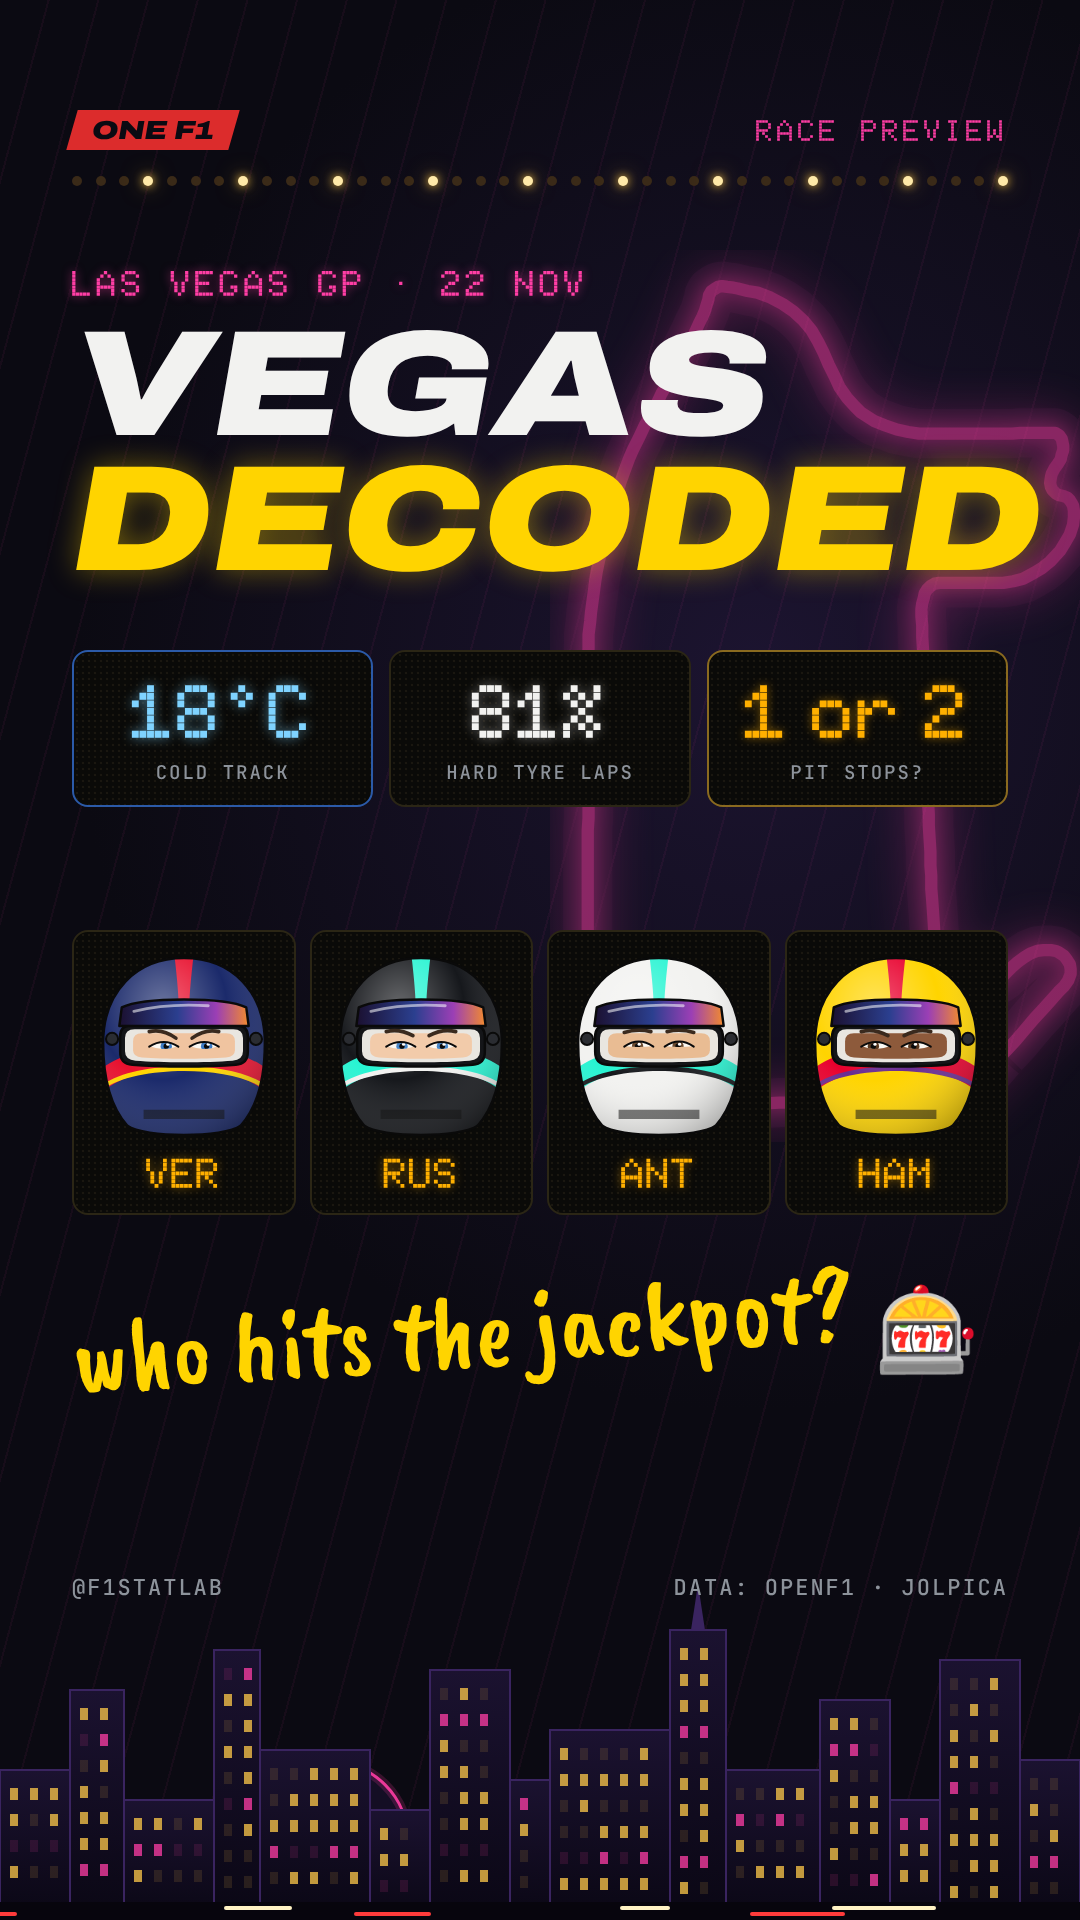
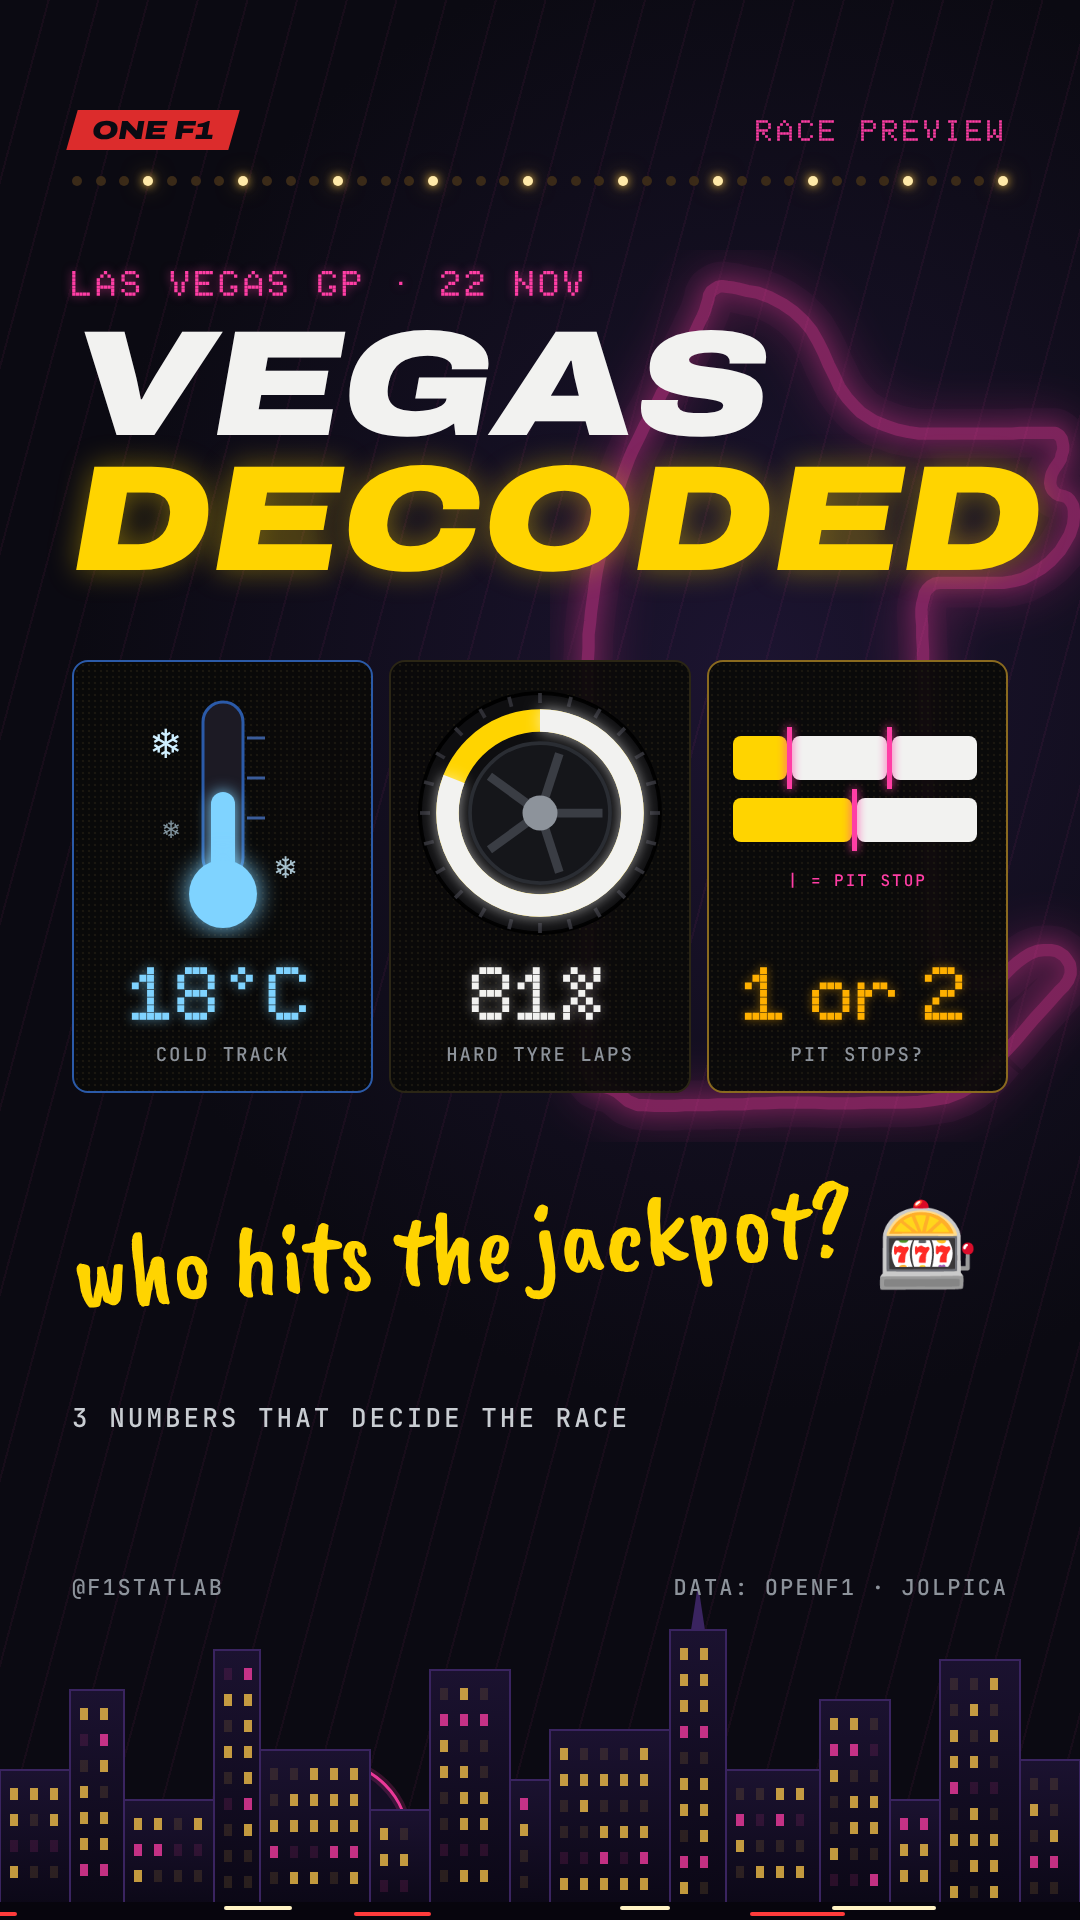
Vegas reel cover: replace driver helmets with thermometer, tyre and pit-stop graphics
Claude-Session: https://claude.ai/code/session_016E9C1XvYpsSCiakD2mRjGd

Changed region(s): [[0.0611, 0.3125, 0.9472, 0.75], [0.3361, 0.7188, 0.3667, 0.75]]

diff --git a/content/vegas-preview-carousel/export-cover.js b/content/vegas-preview-carousel/export-cover.js
@@ -80,23 +80,32 @@ const COVERS = {
     <div class="hand4">${[["VER", "♦", "#C8102E", -12, 6, -330, 40], ["RUS", "♠", "#14161A", -4, 3, -110, 0], ["ANT", "♣", "#14161A", 4, -3, 110, 0], ["HAM", "♥", "#C8102E", 12, -6, 330, 40]].map(([c, s, col, r, l, dx, dy]) =>
       `<div class="card" style="transform:translate(${dx}px,${dy}px) rotate(${r}deg)"><span class="cn tl" style="color:${col}">${s}</span><span class="cn br" style="color:${col}">${s}</span>${helmet(c, { size: 170, look: l })}<b>${c}</b></div>`).join("")}</div>
     <div style="position:absolute;left:0;right:0;top:1360px;text-align:center"><span class="hand" style="font-size:88px;color:#FFD400">pick your card 👇</span></div>`,
-  // F: matches the final reel (skyline, marquee lights, the three things it explains, the four contenders). Built on top of the reel's own stage.
-  decoded: () => { const pts = LAP.map((q) => q[0] + "," + q[1]).join(" "); return `
-    <style>.cv{position:absolute;inset:0;z-index:4}.cv .track{position:absolute;right:-30px;top:250px;width:560px;height:892px;opacity:.5}
+  // F: matches the final reel (skyline, marquee lights, the three things it explains, drawn as a thermometer, a tyre and pit-stop bars; no driver helmets). Built on top of the reel's own stage.
+  decoded: () => { const pts = LAP.map((q) => q[0] + "," + q[1]).join(" ");
+    const thermo = `<svg viewBox="0 0 200 250" width="200" height="250"><rect x="80" y="14" width="40" height="176" rx="20" fill="#1C1A24" stroke="#2B5AA8" stroke-width="3"/>
+      ${[50, 90, 130].map((y) => `<line x1="124" x2="142" y1="${y}" y2="${y}" stroke="#3A5C9A" stroke-width="3"/>`).join("")}
+      <rect x="88" y="104" width="24" height="90" rx="12" fill="#7FD3FF" style="filter:drop-shadow(0 0 8px #7FD3FF)"/><circle cx="100" cy="206" r="34" fill="#7FD3FF" style="filter:drop-shadow(0 0 12px #7FD3FF)"/>
+      <text x="26" y="70" font-size="40" fill="#CFEFFF">❄</text><text x="150" y="190" font-size="30" fill="#CFEFFF" opacity=".8">❄</text><text x="38" y="150" font-size="24" fill="#CFEFFF" opacity=".6">❄</text></svg>`;
+    const tyre = `<svg viewBox="0 0 200 200" width="250" height="250"><circle cx="100" cy="100" r="96" fill="#0E0E10" stroke="#000" stroke-width="3"/>
+      ${Array.from({ length: 24 }, (_, i) => { const t = i * 15 * Math.PI / 180; return `<line x1="${100 + 88 * Math.cos(t)}" y1="${100 + 88 * Math.sin(t)}" x2="${100 + 96 * Math.cos(t)}" y2="${100 + 96 * Math.sin(t)}" stroke="#2E2E34" stroke-width="3"/>`; }).join("")}
+      <circle cx="100" cy="100" r="74" fill="none" stroke="#FFD400" stroke-width="18"/><circle cx="100" cy="100" r="74" fill="none" stroke="#F2F2F0" stroke-width="18" pathLength="100" stroke-dasharray="81 100" transform="rotate(-90 100 100)" style="filter:drop-shadow(0 0 6px rgba(255,255,255,.6))"/>
+      <circle cx="100" cy="100" r="56" fill="#15161A" stroke="#2A2D33" stroke-width="3"/>${[0, 72, 144, 216, 288].map((d) => `<line x1="100" y1="100" x2="${100 + 50 * Math.cos(d * Math.PI / 180)}" y2="${100 + 50 * Math.sin(d * Math.PI / 180)}" stroke="#3A3D44" stroke-width="7"/>`).join("")}<circle cx="100" cy="100" r="14" fill="#8D939B"/></svg>`;
+    const lane = (st) => `<div style="position:relative;height:44px;margin:0 6px 18px">${st.map(([c, x, w]) => `<i style="position:absolute;left:${x}%;width:calc(${w}% - 5px);top:0;height:44px;border-radius:8px;background:${c}"></i>`).join("")}${st.slice(1).map(([c, x]) => `<i style="position:absolute;left:calc(${x}% - 5px);top:-9px;width:5px;height:62px;background:#FF3EA5;box-shadow:0 0 10px #FF3EA5"></i>`).join("")}</div>`;
+    const pits = `<div style="width:100%;height:250px;display:flex;flex-direction:column;justify-content:center">${lane([["#FFD400", 0, 24], ["#F2F2F0", 24, 40], ["#F2F2F0", 64, 36]])}${lane([["#FFD400", 0, 50], ["#F2F2F0", 50, 50]])}<span class="lbl" style="font-size:16px;color:#FF3EA5;letter-spacing:2px">| = PIT STOP</span></div>`;
+    return `
+    <style>.cv{position:absolute;inset:0;z-index:4}.cv .track{position:absolute;right:-30px;top:250px;width:560px;height:892px;opacity:.45}
       .cv .kick{position:absolute;left:72px;top:262px;margin:0;font-size:36px}.cv .h{position:absolute;left:72px;top:318px;font-size:150px;line-height:.9;margin:0}.cv .h em{display:block;text-shadow:0 0 30px rgba(255,212,0,.4)}
-      .tz{position:absolute;left:72px;right:72px;top:650px;display:grid;grid-template-columns:repeat(3,1fr);gap:16px}
-      .tz .panel{padding:22px 20px 20px;text-align:center}.tz b{display:block;font-size:76px;line-height:1;white-space:nowrap}.tz .lbl{display:block;margin-top:10px;font-size:19px;letter-spacing:2px}
-      .row4{position:absolute;left:72px;right:72px;top:930px;display:grid;grid-template-columns:repeat(4,1fr);gap:14px}
-      .row4 .panel{display:flex;flex-direction:column;align-items:center;padding:18px 6px 14px}.row4 .led{font-size:42px;margin-top:4px}</style>
+      .tz{position:absolute;left:72px;right:72px;top:660px;display:grid;grid-template-columns:repeat(3,1fr);gap:16px}
+      .tz .panel{padding:26px 18px 24px;text-align:center;display:flex;flex-direction:column;align-items:center;background-color:rgba(10,10,8,.94)}.tz b{display:block;font-size:76px;line-height:1;white-space:nowrap;margin-top:18px}.tz .lbl{display:block;margin-top:10px;font-size:19px;letter-spacing:2px}</style>
     <div class="hdr"><span class="brand"><span>ONE F1</span></span><span class="pg" style="color:#FF3EA5">RACE PREVIEW</span></div>
     <div class="cv"><svg class="track" viewBox="-44 -44 683 1088"><polyline points="${pts}" fill="none" stroke="#2A1530" stroke-width="60" stroke-linejoin="round"/>
       <polyline points="${pts}" fill="none" stroke="#FF3EA5" stroke-width="15" stroke-linejoin="round" style="filter:drop-shadow(0 0 12px #FF3EA5) drop-shadow(0 0 30px #FF3EA5)"/></svg>
       <div class="kick">LAS VEGAS GP · 22 NOV</div><h1 class="h">Vegas<em>decoded</em></h1>
-      <div class="tz"><div class="panel" style="border-color:#2B5AA8"><b class="led" style="color:#7FD3FF;text-shadow:0 0 12px rgba(127,211,255,.6)">18°C</b><span class="lbl">cold track</span></div>
-        <div class="panel"><b class="led" style="color:#F2F2F0;text-shadow:0 0 12px rgba(255,255,255,.4)">81%</b><span class="lbl">hard tyre laps</span></div>
-        <div class="panel" style="border-color:#8A6A1F"><b class="led" style="word-spacing:-24px">1 or 2</b><span class="lbl">pit stops?</span></div></div>
-      <div class="row4">${[["VER", 6], ["RUS", 3], ["ANT", -3], ["HAM", -6]].map(([c, l]) => `<div class="panel">${helmet(c, { size: 178, look: l })}<b class="led">${c}</b></div>`).join("")}</div>
-      <div style="position:absolute;left:72px;top:1265px;display:flex;align-items:center;gap:20px"><span class="hand" style="font-size:104px;transform:rotate(-4deg);display:inline-block">who hits the jackpot?</span><span style="font-size:84px">🎰</span></div></div>`; },
+      <div class="tz"><div class="panel" style="border-color:#2B5AA8">${thermo}<b class="led" style="color:#7FD3FF;text-shadow:0 0 12px rgba(127,211,255,.6)">18°C</b><span class="lbl">cold track</span></div>
+        <div class="panel">${tyre}<b class="led" style="color:#F2F2F0;text-shadow:0 0 12px rgba(255,255,255,.4)">81%</b><span class="lbl">hard tyre laps</span></div>
+        <div class="panel" style="border-color:#8A6A1F">${pits}<b class="led" style="word-spacing:-24px">1 or 2</b><span class="lbl">pit stops?</span></div></div>
+      <div style="position:absolute;left:72px;top:1180px;display:flex;align-items:center;gap:20px"><span class="hand" style="font-size:104px;transform:rotate(-4deg);display:inline-block">who hits the jackpot?</span><span style="font-size:84px">🎰</span></div>
+      <div style="position:absolute;left:72px;top:1400px" class="lbl"><span style="font-size:26px;color:#C9CDD2">3 numbers that decide the race</span></div></div>`; },
 };
 
 (async () => {
